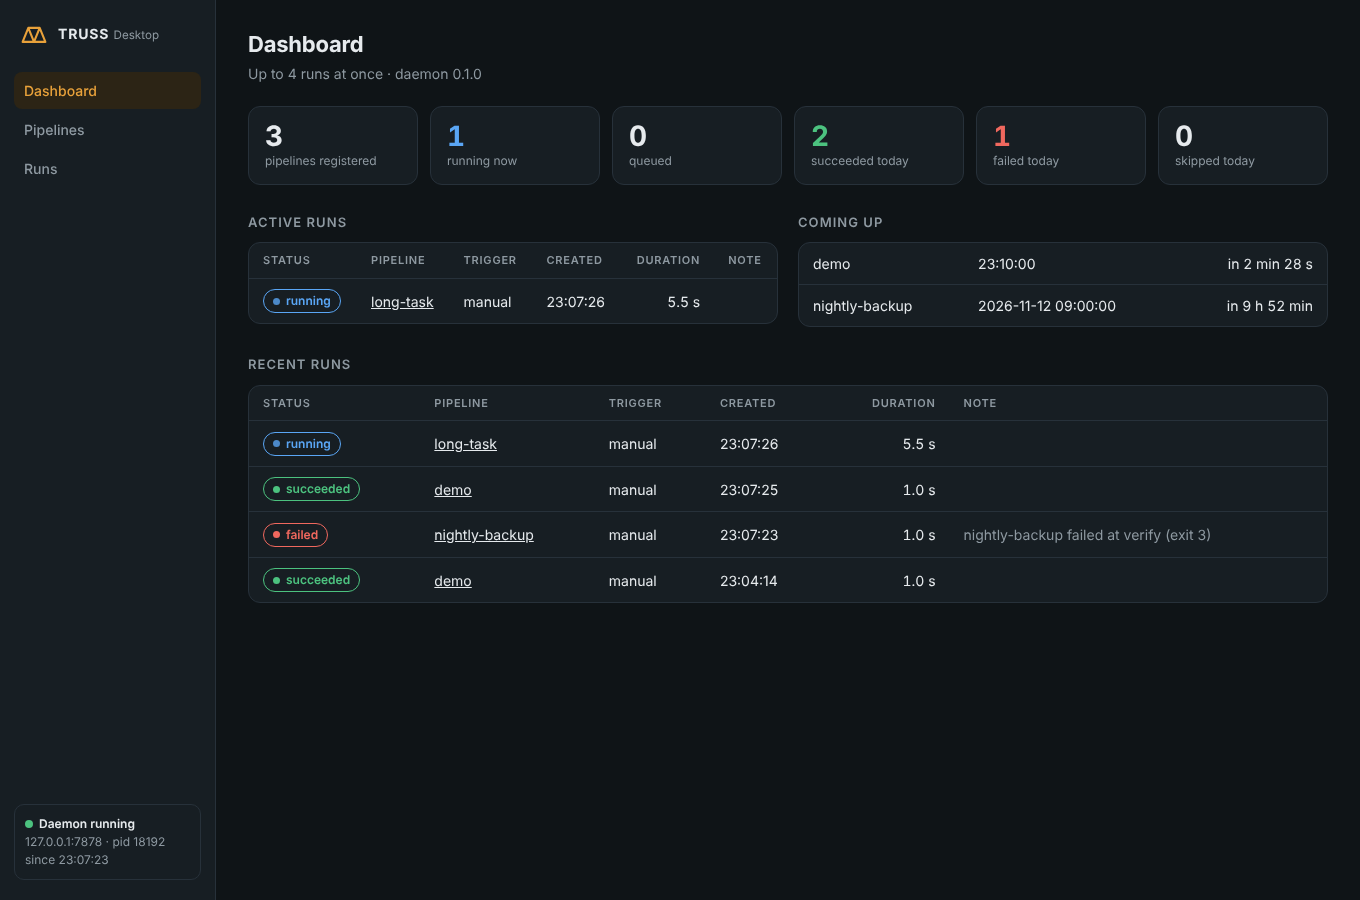
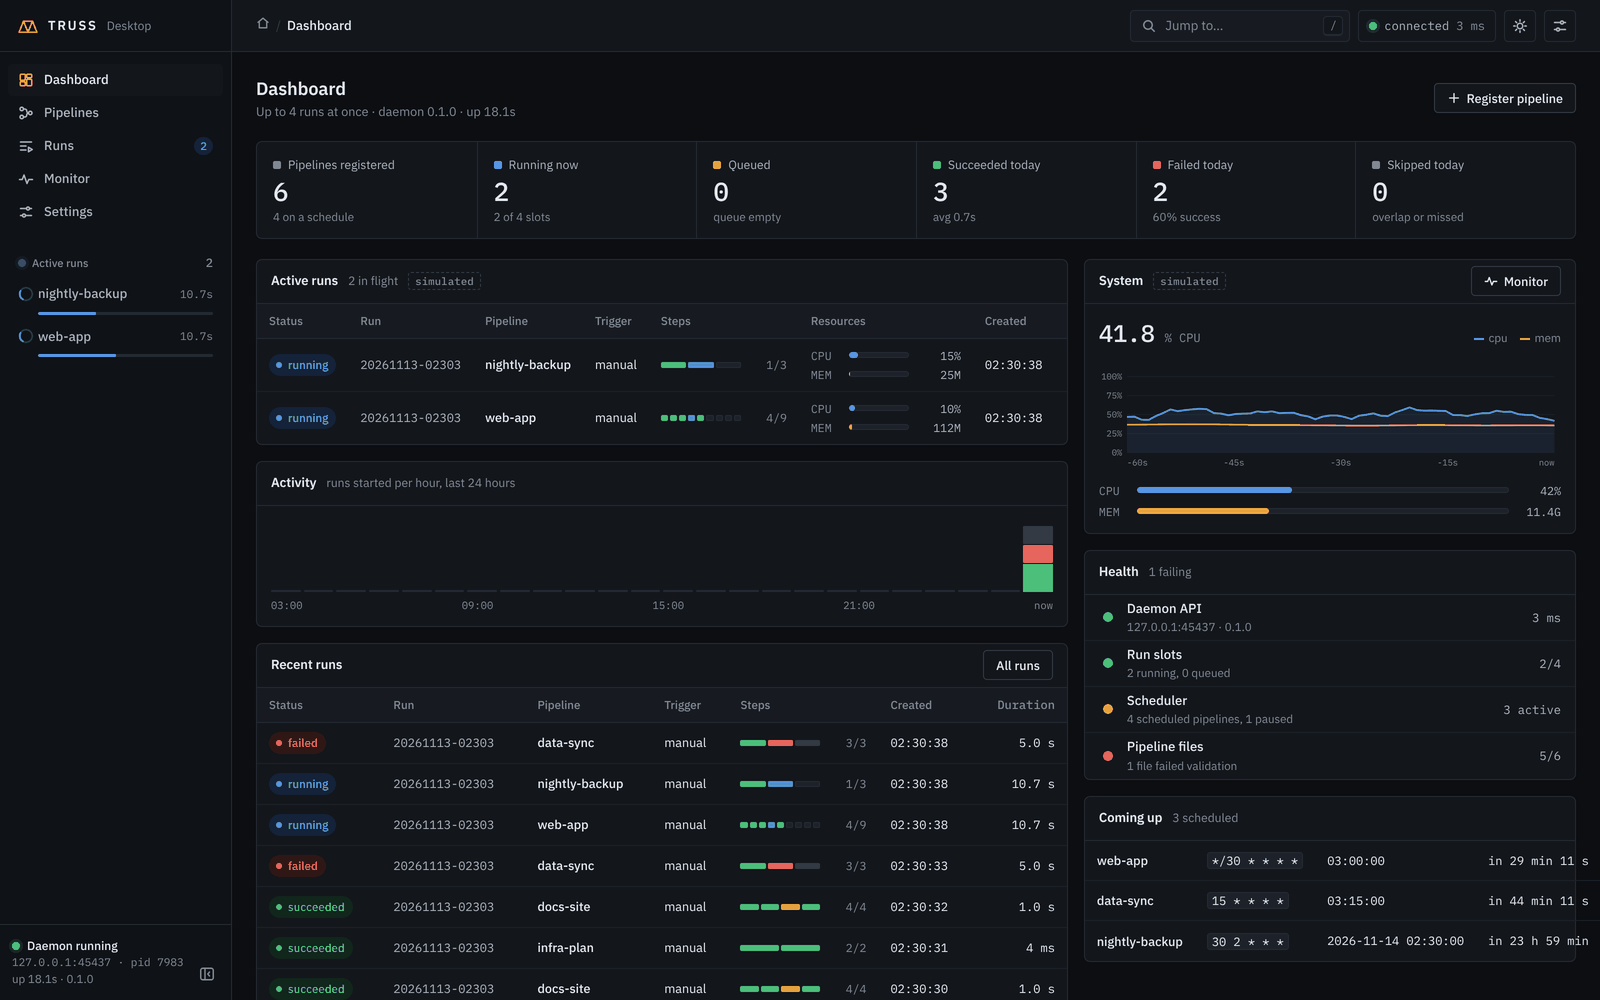
docs(desktop): spec 014, desktop guide and screenshots for the redesign
- Add specs/014-desktop-redesign/spec.md
- Describe the new pages and the simulated figures in docs/desktop.md
- Refresh screenshots; add to milestone and changelog

diff --git a/docs/desktop.md b/docs/desktop.md
@@ -15,22 +15,38 @@ the address instead.
 
 ## What is on screen
 
+One page: a sidebar on the left (pages, active runs, daemon status; collapse it with the button
+at the bottom left or `[`), a header (breadcrumbs, **Jump to…** with `/`, connection and latency,
+theme toggle, settings menu) and the content.
+
 | Page | Shows | You can |
 |---|---|---|
-| **Dashboard** | Counters for today, active runs, the next scheduled runs, recent runs. | Jump to any run or pipeline. |
-| **Pipelines** | Every registered file with its state, schedules, next and last run. | Register a file (type its path or press **Browse…**), run it now, pause or resume its schedules, unregister it. |
-| **Pipeline** | Its settings, its step graph colored by the last run, its run history. | The same actions. |
-| **Runs** | Every run the daemon started or skipped, and every run tracked from a shell, newest first. | Open one. |
-| **Run** | The step graph, each step's result and duration, and the run log, live while it runs. | Cancel the run, run it again, click a step to see only its log lines. |
+| **Dashboard** | Counters for today, active runs with progress, runs per hour, system load, health, the next scheduled runs, recent runs. | Jump to any run or pipeline. |
+| **Pipelines** | Every registered file as a card: state, schedule, next and last run, shape of its step graph. | Register a file (type its path or press **Browse…**), filter, run it now, pause or resume its schedules, unregister it. |
+| **Pipeline** | Its step graph colored by the last run, success rate, configuration, run history. | The same actions. |
+| **Runs** | Every run the daemon started or skipped, and every run tracked from a shell, newest first. | Filter by status or text, open one. |
+| **Run** | Progress, the running steps, elapsed time, the step graph with the running step highlighted, step results, the live log, resources and configuration. | Cancel the run, run it again, click a step to see only its log lines, find in the log, wrap, follow. |
+| **Monitor** | Health checks, CPU and memory, cores, the daemon's process and every live step. | Open the run behind a process. |
+| **Settings** | Theme, density, sidebar, motion, refresh interval, log options, daemon facts. | Change them (kept in this browser), forget the access token. |
 
-![A failed run](images/desktop-run.png)
+![Pipelines](images/desktop-pipelines.png)
+
+![A live run](images/desktop-run.png)
+
+**Simulated figures.** The daemon does not report CPU, memory or per-step processes yet. Where
+Desktop shows them (resource meters, Monitor charts, step process ids) the numbers are simulated
+and labeled **simulated**. Turn them off in **Settings → Simulated metrics**. Everything else
+(runs, steps, logs, schedules, the daemon's pid, address and uptime) comes from the daemon.
+See [spec 014](../specs/014-desktop-redesign/spec.md).
+
+![Monitor](images/desktop-monitor.png)
 
 Runs started with `truss run --track` appear next to the daemon's own, with a **local** badge
 in the Trigger column and on the run's page. They show their steps and log live, like any run.
 Cancel works (the CLI notices within a second and stops); **Run again** is not offered, because
 nothing registered stands behind a local run.
 
-The pages refresh on their own about every second and a half.
+The pages refresh on their own about every second and a half (change it in Settings).
 
 ## Registering with the file picker
 
@@ -51,7 +67,8 @@ playwright install chromium && npm test`. CI runs them on Linux.
 
 TRUSS Desktop is a small web application inside the `truss` binary. The daemon serves it; it
 uses the same [HTTP API](daemon.md#http-api) as the CLI. There is nothing extra to install and
-no build step: plain HTML, CSS and JavaScript in `internal/webui/assets/`.
+no build step: plain HTML, CSS and JavaScript in `internal/webui/assets/`, with the IBM Plex
+fonts (SIL Open Font License) served from the binary.
 
 The address `truss desktop` opens carries the access token after a `#`. Browsers never send
 that part to a server; the page keeps it in the browser's local storage and sends it as a

diff --git a/specs/014-desktop-redesign/spec.md b/specs/014-desktop-redesign/spec.md
@@ -1,0 +1,54 @@
+# Feature Specification: Desktop redesign: shell, monitor, settings
+
+**Spec**: `014-desktop-redesign` | **Created**: 2026-11-13 | **Status**: Implemented
+
+Extends [`007-truss-desktop`](../007-truss-desktop/spec.md) and
+[`013-desktop-polish`](../013-desktop-polish/spec.md). User docs: [`docs/desktop.md`](../../docs/desktop.md).
+Risk class: tier 1 (UI behavior; no change to the daemon, its API, the CLI or the run log).
+Written alongside the implementation (constitution 2.0.0, principle I).
+
+## User stories
+
+1. **See what a run is doing** (P1). I open a run and see which step is running, how far the run
+   is, its step graph with the running step highlighted, the live log, and its configuration.
+2. **Keep an eye on the machine** (P2). A Monitor page shows the daemon's health and the
+   processes it runs.
+3. **Make it mine** (P2). I pick light or dark, density, refresh rate and log options, and
+   collapse the sidebar.
+
+## Requirements
+
+- **FR-001** One page with a collapsible sidebar (Dashboard, Pipelines, Runs, Monitor, Settings,
+  active runs, daemon status), a header (breadcrumbs, *Jump to…*, connection state with latency,
+  theme toggle, settings menu) and a scrollable content area. The collapse button sits at the
+  bottom left; `[` toggles it.
+- **FR-002** Light and dark themes. *System* follows the operating system; a pinned choice is
+  kept in the browser and applied before the first paint.
+- **FR-003** Pipeline cards place every element at the same position whatever the content: the
+  same rows (name and state, path, schedule, next run, last run, duration, shape, actions) at the
+  same heights, and the same buttons in the same order (*Pause schedule* is shown disabled when a
+  pipeline has no schedule).
+- **FR-004** The run page shows progress (steps done of total), the running steps, start time,
+  elapsed time, the supervising process id, the step graph by dependency stage with the running
+  step highlighted and its incoming edges animated, a step list, the live log (line numbers,
+  find, wrap, follow), and the pipeline's configuration.
+- **FR-005** The daemon does not report CPU, memory or per-step processes. Where the page shows
+  such figures they are simulated, deterministic per run and step, and every place that shows
+  them carries a visible *simulated* label. *Settings → Simulated metrics* turns them off. The
+  daemon's own process id, address, version, uptime, run slots, schedules and run results are
+  real.
+- **FR-006** Monitor shows health checks derived from real data (API latency, run slots,
+  scheduler, pipeline files, recent failures, poll availability), and simulated host CPU,
+  memory, per-core load and a process table.
+- **FR-007** Settings (theme, density, sidebar, motion, refresh interval, simulated metrics, log
+  wrap, timestamps, font size) are stored in the browser only. *Forget token* removes the stored
+  access token.
+- **FR-008** *Jump to…* (`/` or Ctrl/Cmd-K) finds pages, pipelines and recent runs by name.
+- **FR-009** Everything in `013-desktop-polish` keeps working: the register form and file picker,
+  keyboard order, refresh without losing typed text or focus, empty and error states, and the
+  daemon's Content Security Policy (no inline scripts or style attributes).
+
+## Not in scope
+
+Real resource metrics from the daemon (a later API addition would replace the simulation), a
+packaged desktop window.

diff --git a/CHANGELOG.md b/CHANGELOG.md
@@ -22,6 +22,7 @@ Dates below are when the work landed on `main`. No version has been tagged yet, 
 
 ### Added
 
+- **TRUSS Desktop redesign.** Collapsible sidebar, header with breadcrumbs, *Jump to…* and a settings menu, light and dark themes, a Monitor page (health checks, CPU, memory, cores, processes) and a Settings page. The run page shows progress, the running steps, a stage-by-stage step graph with the running step highlighted, and a live log with line numbers, find, wrap and follow. Pipeline cards keep every element in a fixed position. CPU, memory and step-process figures are simulated and labeled as such until the daemon reports them (specs/014-desktop-redesign).
 - **Retries.** A step may set `retries` (0 to 100) and `retry_delay`. A failed attempt is run again; each attempt is logged with its own `started` and `finished` lines, and a `step <id> retry <n> of <total> in <delay>` line comes between them. The step's result is its last attempt (specs/009-retries-and-conditions).
 - **`continue-on-error: true`** on a step. Its failure is logged and shown but does not fail the run or stop other steps. Steps that need it are skipped unless their `if` says otherwise.
 - **Conditions.** `if` on a step or a job takes a small expression: `always()`, `success()`, `failure()`, `==`, `!=`, `&&`, `||`, `!`, parentheses, quoted text and `env.NAME`. A skipped step is logged as `step <id> skipped because <reason>` and shown as skipped. After a failure only steps whose condition calls `always()` or `failure()` start. Definitions without these fields behave exactly as before; an older TRUSS rejects them as unknown fields.

diff --git a/docs/MILESTONE.md b/docs/MILESTONE.md
@@ -26,7 +26,7 @@ that matches it. `go.mod` already says `// version: 0.1.0`. The changelog stays 
 | Daemon | Background service, registry, cron scheduling with missed-run policy, run queue and history, HTTP API, CLI commands | `006-daemon-registry-and-scheduling` | Implemented |
 | Run tracking and queue | Queued runs survive a daemon restart; `truss run --track` reports a local run to the daemon (`local` trigger) | `010-run-tracking-and-queue` | Implemented |
 | Secrets | `truss secret`, `secrets` in the pipeline file, redaction of values in step output | `012-secrets` | Implemented |
-| TRUSS Desktop | Dashboard, pipeline control, run view with graph and live log, file picker, browser tests | `007-truss-desktop`, `013-desktop-polish` | Implemented |
+| TRUSS Desktop | Dashboard, pipeline control, run view with graph and live log, file picker, browser tests | `007-truss-desktop`, `013-desktop-polish`, `014-desktop-redesign` | Implemented |
 | Retries and conditions | `retries`, `retry_delay`, `continue-on-error`, `if` on steps, `if` on jobs | `009-retries-and-conditions` | Implemented |
 
 **Operating systems.** Linux, macOS and Windows. A `run` string is a command for that host's
